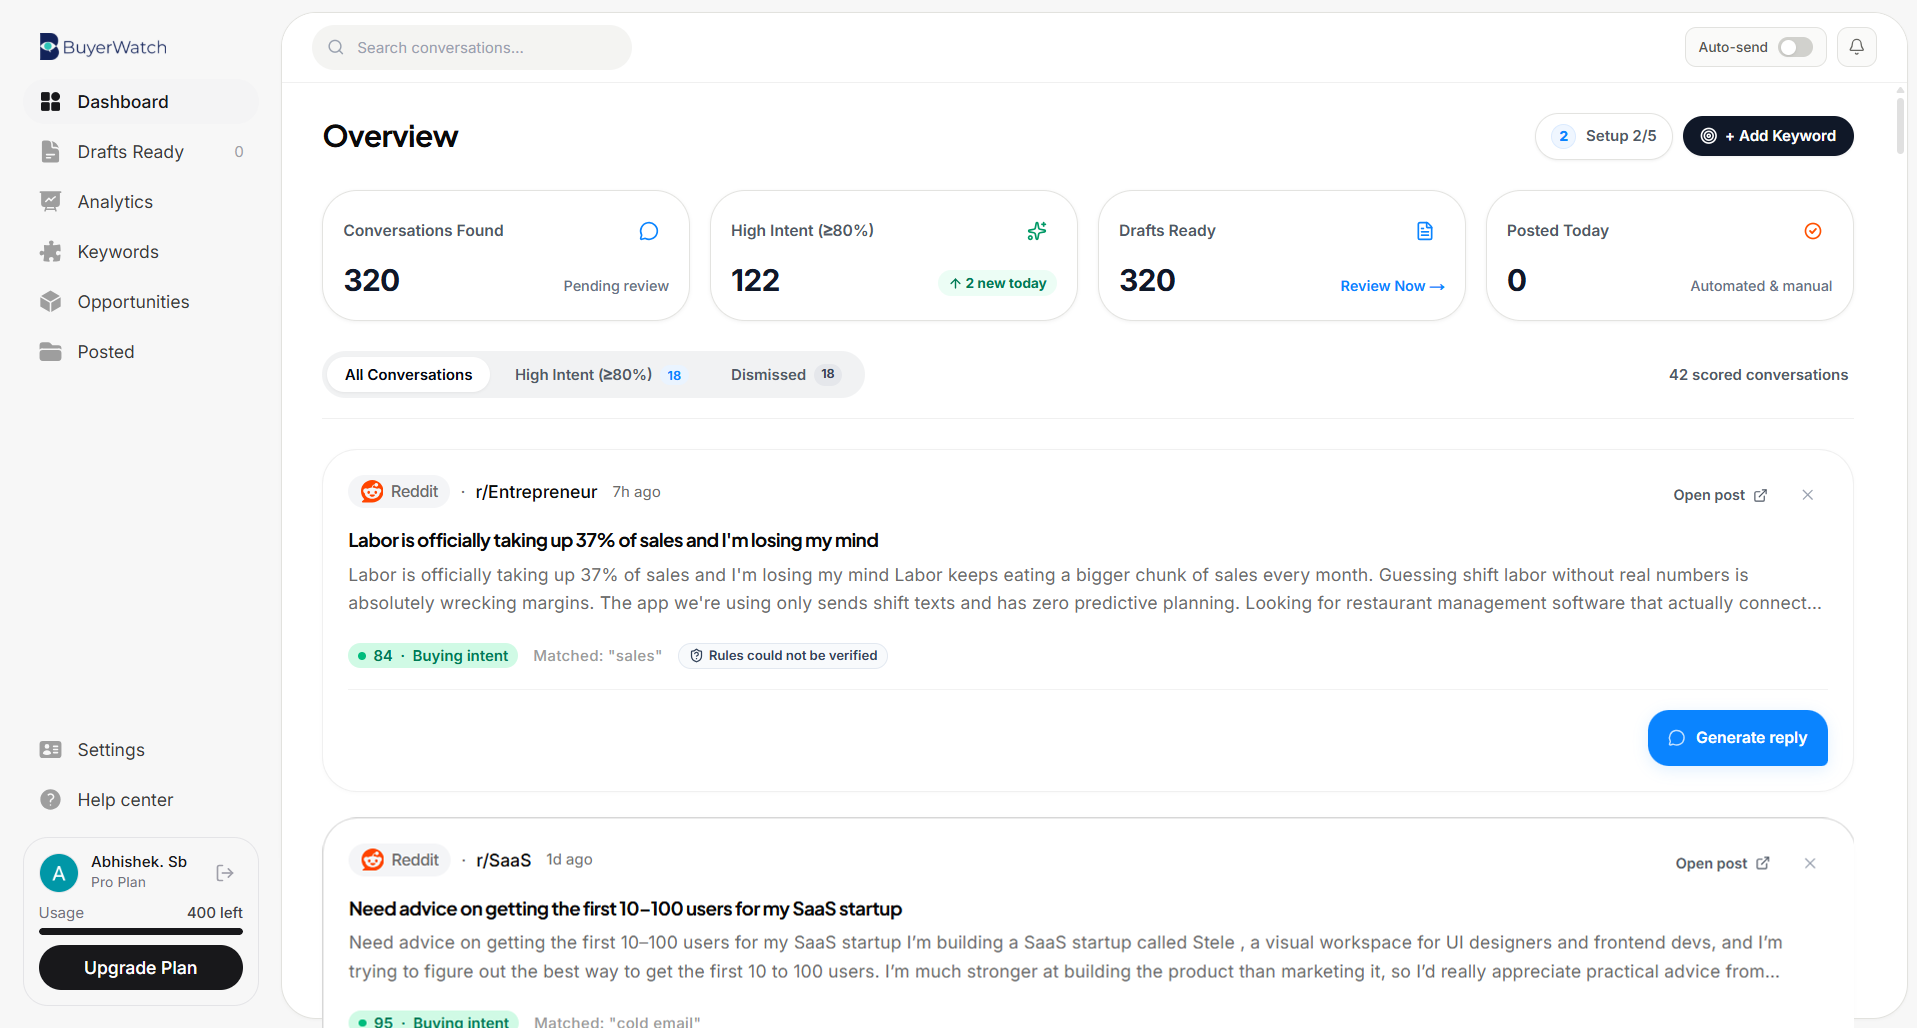
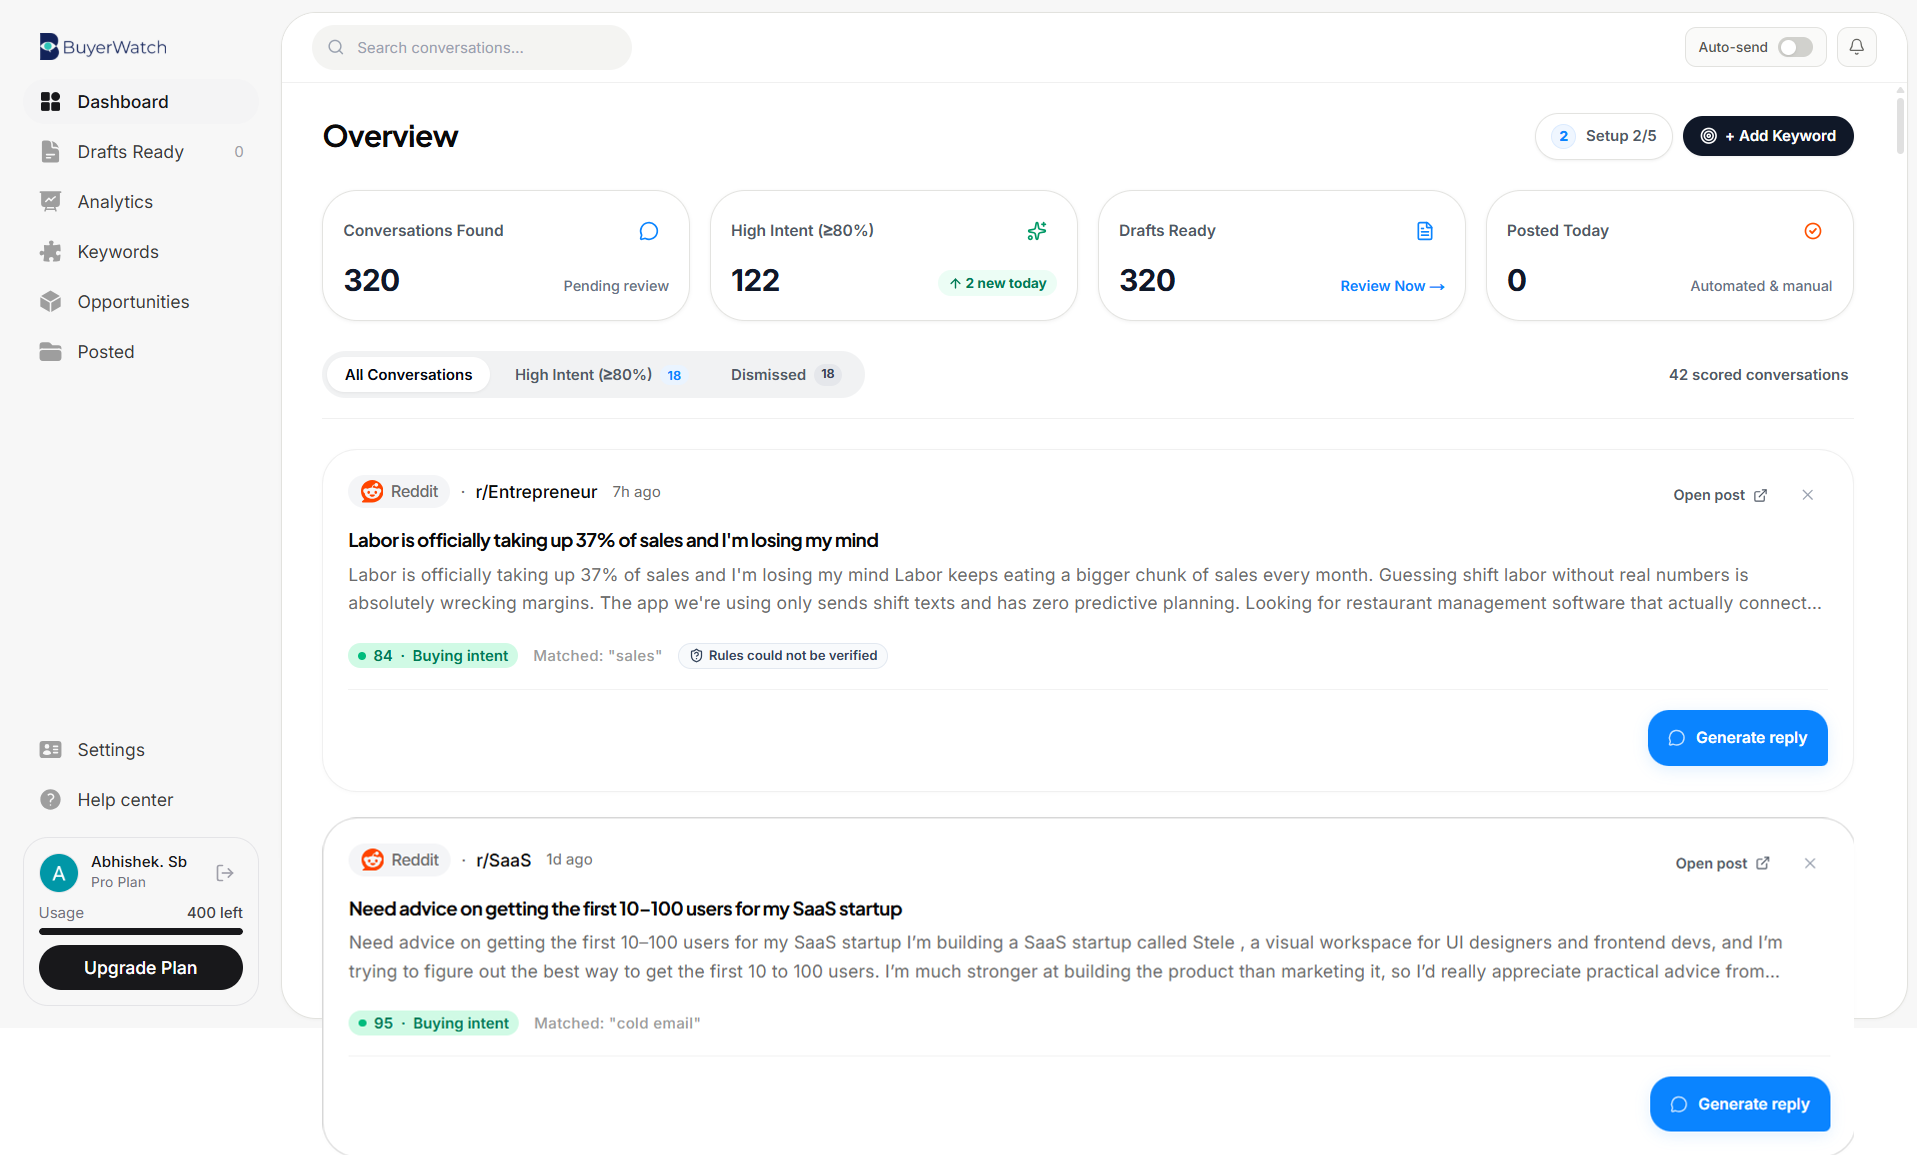
fix: show complete homepage intent example

diff --git a/src/app/page.tsx b/src/app/page.tsx
@@ -322,7 +322,7 @@ export default function LandingPage() {
                   src="/buyerwatch-dashboard-users-preview.png"
                   alt="BuyerWatch dashboard showing multiple high-intent buyer conversations"
                   width={1917}
-                  height={1028}
+                  height={1155}
                   sizes="(max-width: 768px) 100vw, 1180px"
                   unoptimized
                   className="block h-auto w-full"
